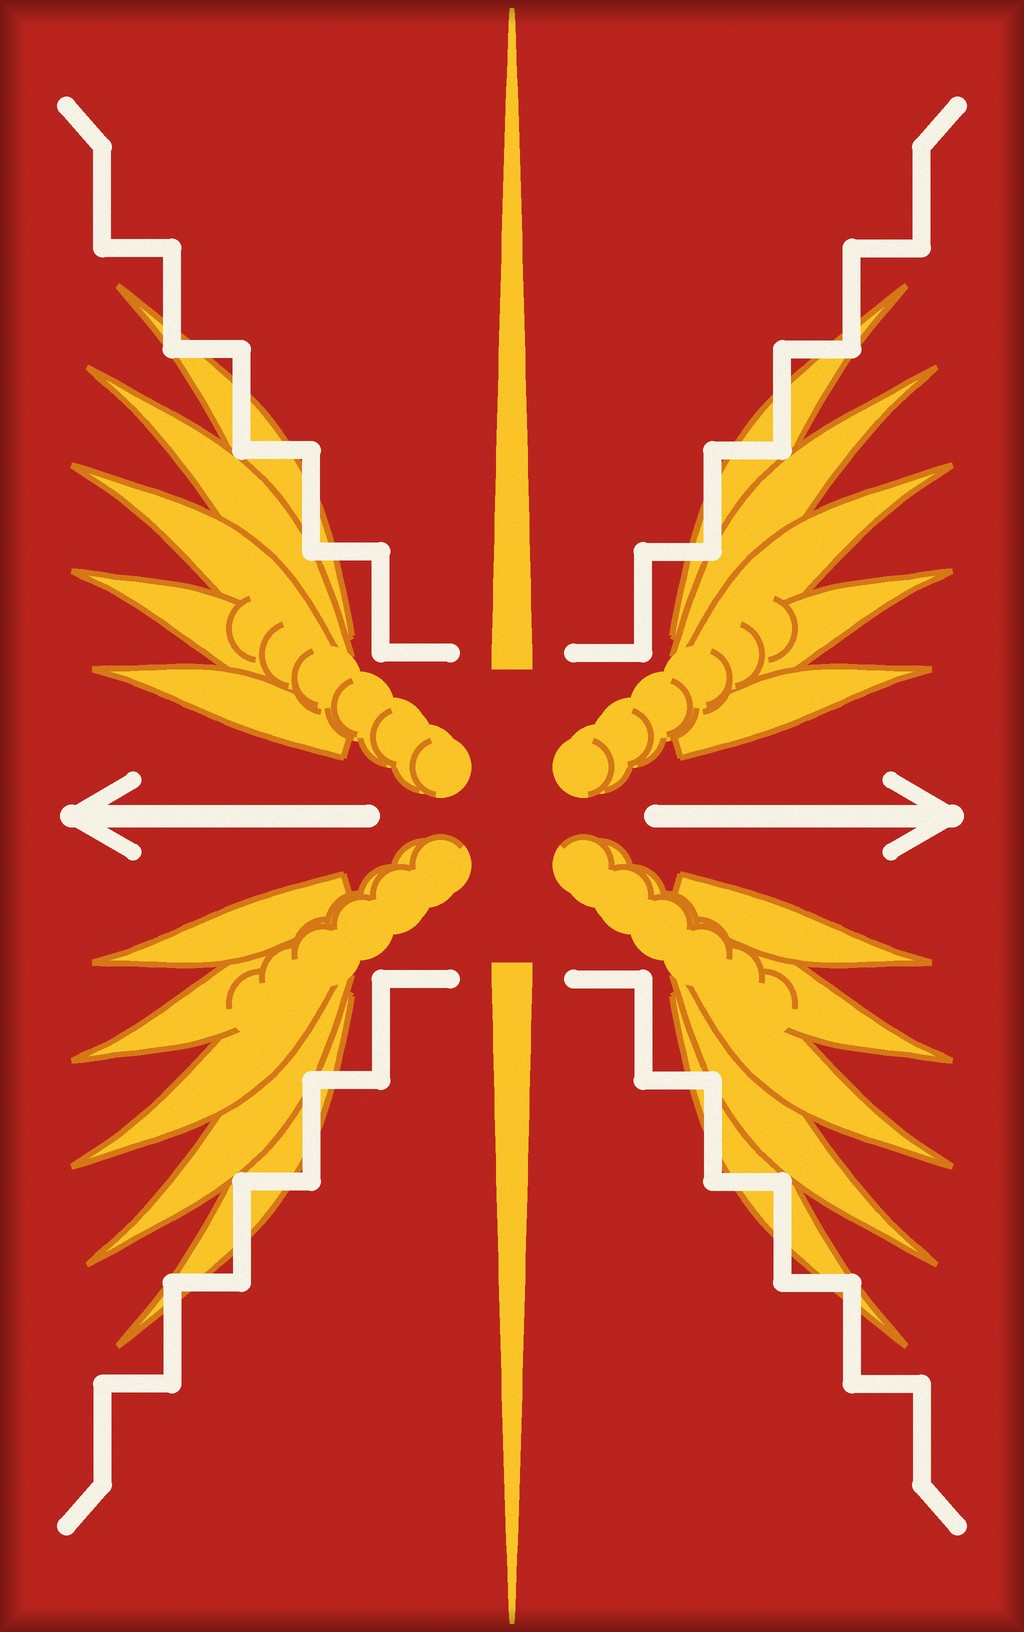
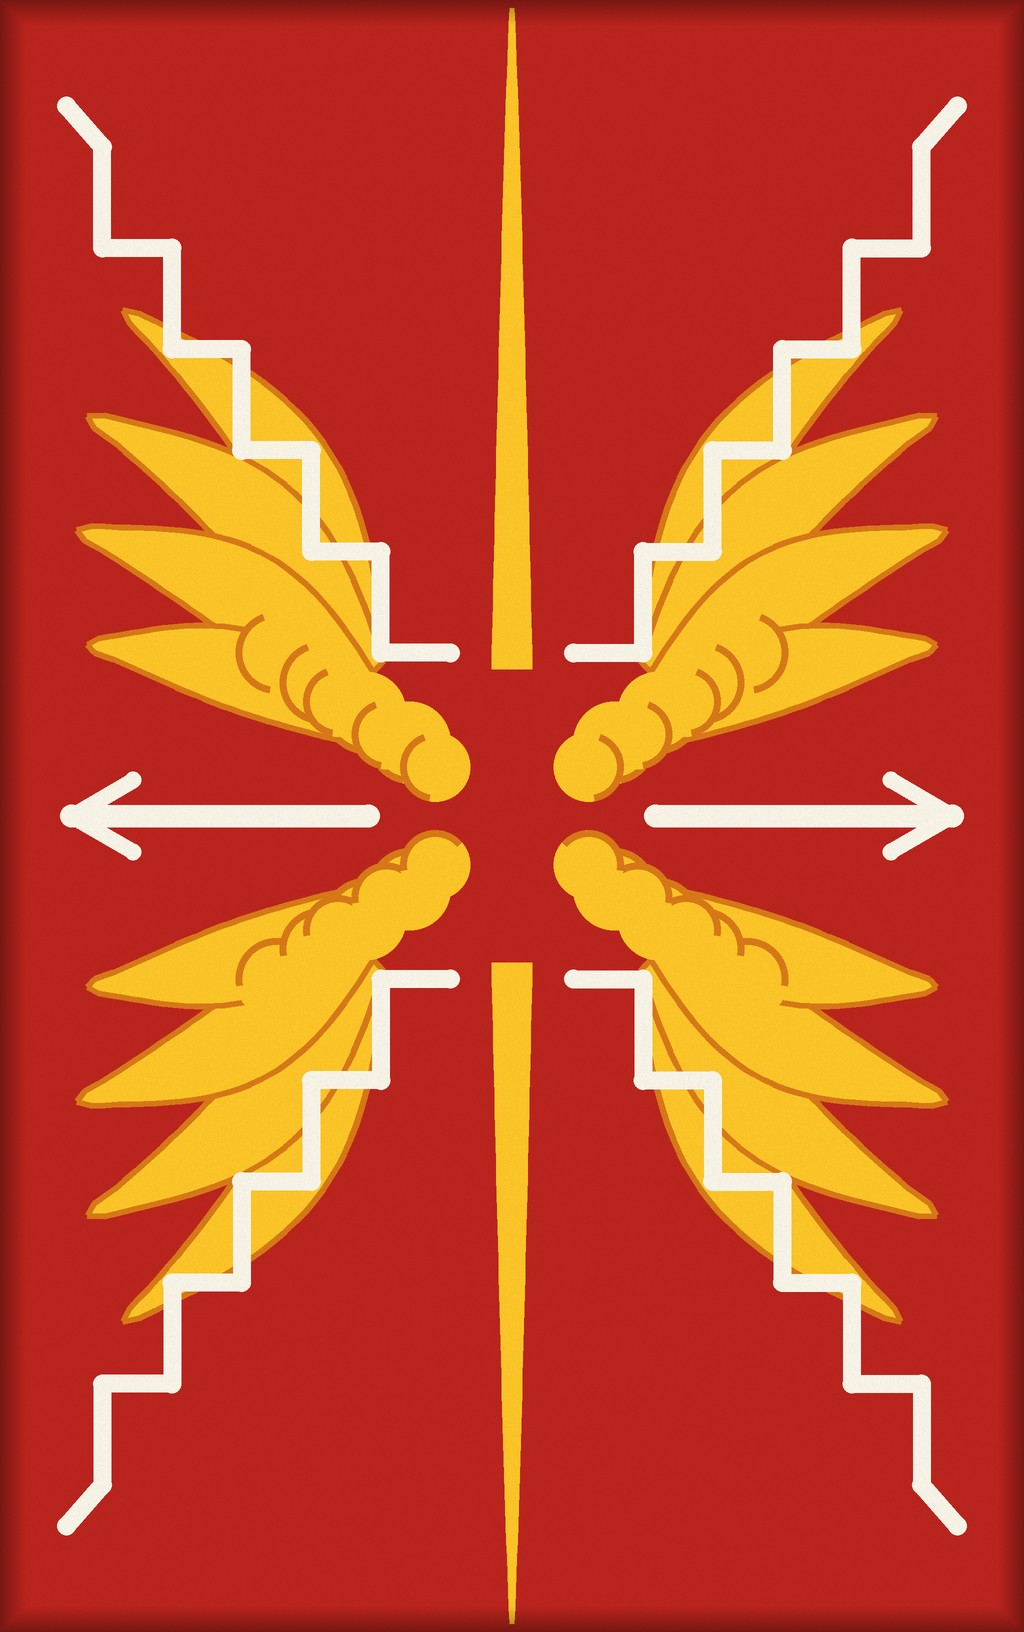
Legionario: colori più fedeli, schinieri sagomati, ali dello scudo più larghe

Changed region(s): [[0.5625, 0.1562, 0.9375, 0.8438], [0.0625, 0.1562, 0.4375, 0.8438]]

diff --git a/tools/blender/legionario.py b/tools/blender/legionario.py
@@ -41,16 +41,16 @@ def materiali():
     return {
         "pelle": materiale("Pelle", (0.60, 0.38, 0.26), ruvidita=0.55),
         "tunica": materiale("Tunica", (0.50, 0.05, 0.04), ruvidita=0.9),
-        "acciaio": materiale("Acciaio", (0.78, 0.79, 0.80), metallo=1.0, ruvidita=0.28),
+        "acciaio": materiale("Acciaio", (0.66, 0.67, 0.69), metallo=1.0, ruvidita=0.4),
         "ottone": materiale("Ottone", (0.86, 0.62, 0.26), metallo=1.0, ruvidita=0.32),
         "cuoio": materiale("Cuoio", (0.22, 0.11, 0.05), ruvidita=0.65),
-        "cuoio_chiaro": materiale("CuoioChiaro", (0.42, 0.24, 0.12), ruvidita=0.7),
+        "cuoio_chiaro": materiale("CuoioChiaro", (0.30, 0.17, 0.08), ruvidita=0.7),
         "legno": materiale("Legno", (0.42, 0.27, 0.14), ruvidita=0.7),
         "ferro": materiale("Ferro", (0.32, 0.32, 0.34), metallo=1.0, ruvidita=0.45),
         "occhi": materiale("Occhi", (0.04, 0.03, 0.02), ruvidita=0.3),
         "scudo": materiale("Scudo", (0.62, 0.10, 0.08), ruvidita=0.6, immagine=immagine),
         "scudo_retro": materiale("ScudoRetro", (0.30, 0.18, 0.09), ruvidita=0.8),
-        "osso": materiale("Osso", (0.86, 0.80, 0.66), ruvidita=0.5),
+        "osso": materiale("Osso", (0.74, 0.64, 0.46), ruvidita=0.5),
     }
 
 
@@ -518,17 +518,18 @@ def schinieri(c):
     for lato in ("d", "s"):
         ginocchio, caviglia = P("ginocchio_" + lato), P("caviglia_" + lato)
         sezioni = []
-        for i in range(8):
-            t = i / 7
-            p = ginocchio.lerp(caviglia, 0.04 + t * 0.8)
-            r = 0.072 - t * 0.016
-            sezioni.append(((p.x, p.y - 0.004, p.z), r, r * 0.95))
+        for i in range(9):
+            t = i / 8
+            p = ginocchio.lerp(caviglia, 0.03 + t * 0.78)
+            # Sagomato sul polpaccio: pieno in alto, stretto verso la caviglia.
+            r = 0.064 + 0.01 * math.sin(math.pi * min(1.0, t * 1.6)) - 0.018 * t
+            sezioni.append(((p.x, p.y - 0.004, p.z), r, r * 0.92))
         # Solo la parte davanti della gamba (da -160 a -20 gradi), come un guscio.
         gusci.append(tubo_ellittico(list(reversed(sezioni)), n=16, inizio=math.radians(200),
                                     fine=math.radians(340), chiuso=False))
         # Ginocchiera: la parte alta dello schiniere si gonfia sulla rotula.
-        rotula = ginocchio + Vector((0, -0.056, -0.006))
-        gusci.append(sfera(rotula, (0.04, 0.016, 0.042), 12, 8))
+        rotula = ginocchio + Vector((0, -0.062, -0.012))
+        gusci.append(sfera(rotula, (0.04, 0.014, 0.04), 12, 8))
         for t in (0.3, 0.7):
             p = ginocchio.lerp(caviglia, 0.12 + t * 0.72)
             r = 0.07 - t * 0.016
@@ -549,7 +550,7 @@ def calzari(c):
                 v.co.z = 0.012
         collo = cilindro((x, 0.015, 0.03), (x, 0.02, 0.15), 0.048, 0.044, n=16)
         pezzi += [piede, collo]
-        suole.append(scatola((x, -0.05, 0.007), (0.1, 0.26, 0.014)))
+        suole.append(sfera((x, -0.05, 0.008), (0.056, 0.135, 0.008), 16, 6))
         for z in (0.06, 0.10, 0.14):
             suole.append(tubo_ellittico([((x, 0.02, z - 0.006), 0.051, 0.051), ((x, 0.02, z + 0.006), 0.05, 0.05)],
                                         n=16))
@@ -839,9 +840,9 @@ def studio(larghezza=1080, altezza=1440):
         punta_a(o, Vector((0.05, 0, 1.0)))
         return o
 
-    luce("Chiave", "AREA", 900, (-2.6, -3.2, 3.6), (1.0, 0.96, 0.9), 2.0)
-    luce("Riempimento", "AREA", 350, (3.0, -2.4, 1.8), (0.85, 0.9, 1.0), 3.0)
-    luce("Controluce", "AREA", 500, (0.5, 3.0, 3.0), (1.0, 0.95, 0.85), 2.0)
+    luce("Chiave", "AREA", 600, (2.6, -3.2, 3.6), (1.0, 0.96, 0.9), 2.0)
+    luce("Riempimento", "AREA", 220, (-3.0, -2.4, 1.8), (0.85, 0.9, 1.0), 3.0)
+    luce("Controluce", "AREA", 400, (0.5, 3.0, 3.0), (1.0, 0.95, 0.85), 2.0)
     pavimento = bpy.data.meshes.new("Pavimento")
     bm = bmesh.new()
     bmesh.ops.create_circle(bm, cap_ends=True, segments=64, radius=3.0)
@@ -854,8 +855,8 @@ def studio(larghezza=1080, altezza=1440):
     scena.world = mondo
     mondo.use_nodes = True
     sfondo = mondo.node_tree.nodes.get("Background")
-    sfondo.inputs["Color"].default_value = (0.42, 0.45, 0.5, 1)
-    sfondo.inputs["Strength"].default_value = 0.7
+    sfondo.inputs["Color"].default_value = (0.36, 0.39, 0.44, 1)
+    sfondo.inputs["Strength"].default_value = 0.5
     camera = bpy.data.objects.new("Fotocamera", bpy.data.cameras.new("Fotocamera"))
     camera.data.lens = 50
     col.objects.link(camera)
@@ -866,7 +867,7 @@ def studio(larghezza=1080, altezza=1440):
     scena.render.resolution_percentage = 100
     scena.render.image_settings.file_format = "JPEG"
     scena.render.image_settings.quality = 88
-    scena.view_settings.view_transform = "AgX"
+    scena.view_settings.view_transform = "Standard"
     return camera
 
 

diff --git a/tools/blender/scudo_texture.py b/tools/blender/scudo_texture.py
@@ -68,7 +68,7 @@ def piuma(base, punta, curvatura, larghezza):
         t = i / 30
         cx = u0 * W + du * W * t + nx * curvatura * W * math.sin(math.pi * t)
         cy = v0 * H + dv * H * t + ny * curvatura * W * math.sin(math.pi * t)
-        mezza = larghezza * W * (0.55 + 0.45 * math.sin(math.pi * min(1, t * 1.15))) * (1 - t ** 3)
+        mezza = larghezza * W * (0.5 + 0.5 * math.sin(math.pi * min(1, t * 1.1))) * math.sqrt(max(0.0, 1 - t ** 4))
         sinistra.append((cx + nx * mezza, cy + ny * mezza))
         destra.append((cx - nx * mezza, cy - ny * mezza))
     contorno = sinistra + destra[::-1]
@@ -77,23 +77,22 @@ def piuma(base, punta, curvatura, larghezza):
 
 
 def ala(alto):
-    """Ala sinistra: alto=True sopra la freccia orizzontale, altrimenti sotto (specchiata in verticale)."""
+    """Ala sinistra: alto=True sopra la freccia orizzontale, altrimenti sotto (specchiata in verticale).
+    Come nella foto: quattro penne larghe che si piegano verso l'alto e copritrici a squame vicino all'umbone."""
     tras = (lambda q: q) if alto else capovolgi
-    # Remiganti lunghe: partono vicino all'umbone e si piegano verso l'alto a sinistra, a ventaglio.
     remiganti = [
-        ((0.33, 0.395), (0.115, 0.175), 0.034, 0.030),
-        ((0.33, 0.41), (0.085, 0.225), 0.034, 0.033),
-        ((0.33, 0.425), (0.07, 0.285), 0.030, 0.034),
-        ((0.33, 0.44), (0.07, 0.35), 0.022, 0.033),
-        ((0.34, 0.455), (0.09, 0.41), 0.012, 0.028),
+        ((0.36, 0.40), (0.12, 0.19), 0.045, 0.040),
+        ((0.36, 0.415), (0.085, 0.255), 0.040, 0.044),
+        ((0.36, 0.43), (0.075, 0.325), 0.030, 0.044),
+        ((0.36, 0.445), (0.085, 0.395), 0.018, 0.040),
     ]
     for base, punta, curva, larg in remiganti:
         b, t = tras([base, punta])
         piuma(b, t, curva if alto else -curva, larg)
-    # Copritrici: due file di squame, il bordo arancio verso l'esterno.
+    # Copritrici: due file di squame grandi, il bordo arancio verso l'esterno.
     file = (
-        ((0.415, 0.465), (0.255, 0.385), 6, 0.034),
-        ((0.43, 0.47), (0.315, 0.415), 4, 0.03),
+        ((0.40, 0.455), (0.27, 0.40), 4, 0.04),
+        ((0.425, 0.47), (0.33, 0.43), 3, 0.034),
     )
     for (ua, va), (ub, vb), n, raggio in file:
         for k in range(n - 1, -1, -1):
@@ -103,7 +102,7 @@ def ala(alto):
             r = raggio * W
             d.ellipse((x - r, y - r, x + r, y + r), fill=GIALLO)
             inizio = 100 if alto else 170
-            d.arc((x - r, y - r, x + r, y + r), inizio, inizio + 150, fill=ARANCIO, width=int(0.006 * W))
+            d.arc((x - r, y - r, x + r, y + r), inizio, inizio + 150, fill=ARANCIO, width=int(0.007 * W))
 
 
 for alto in (True, False):
